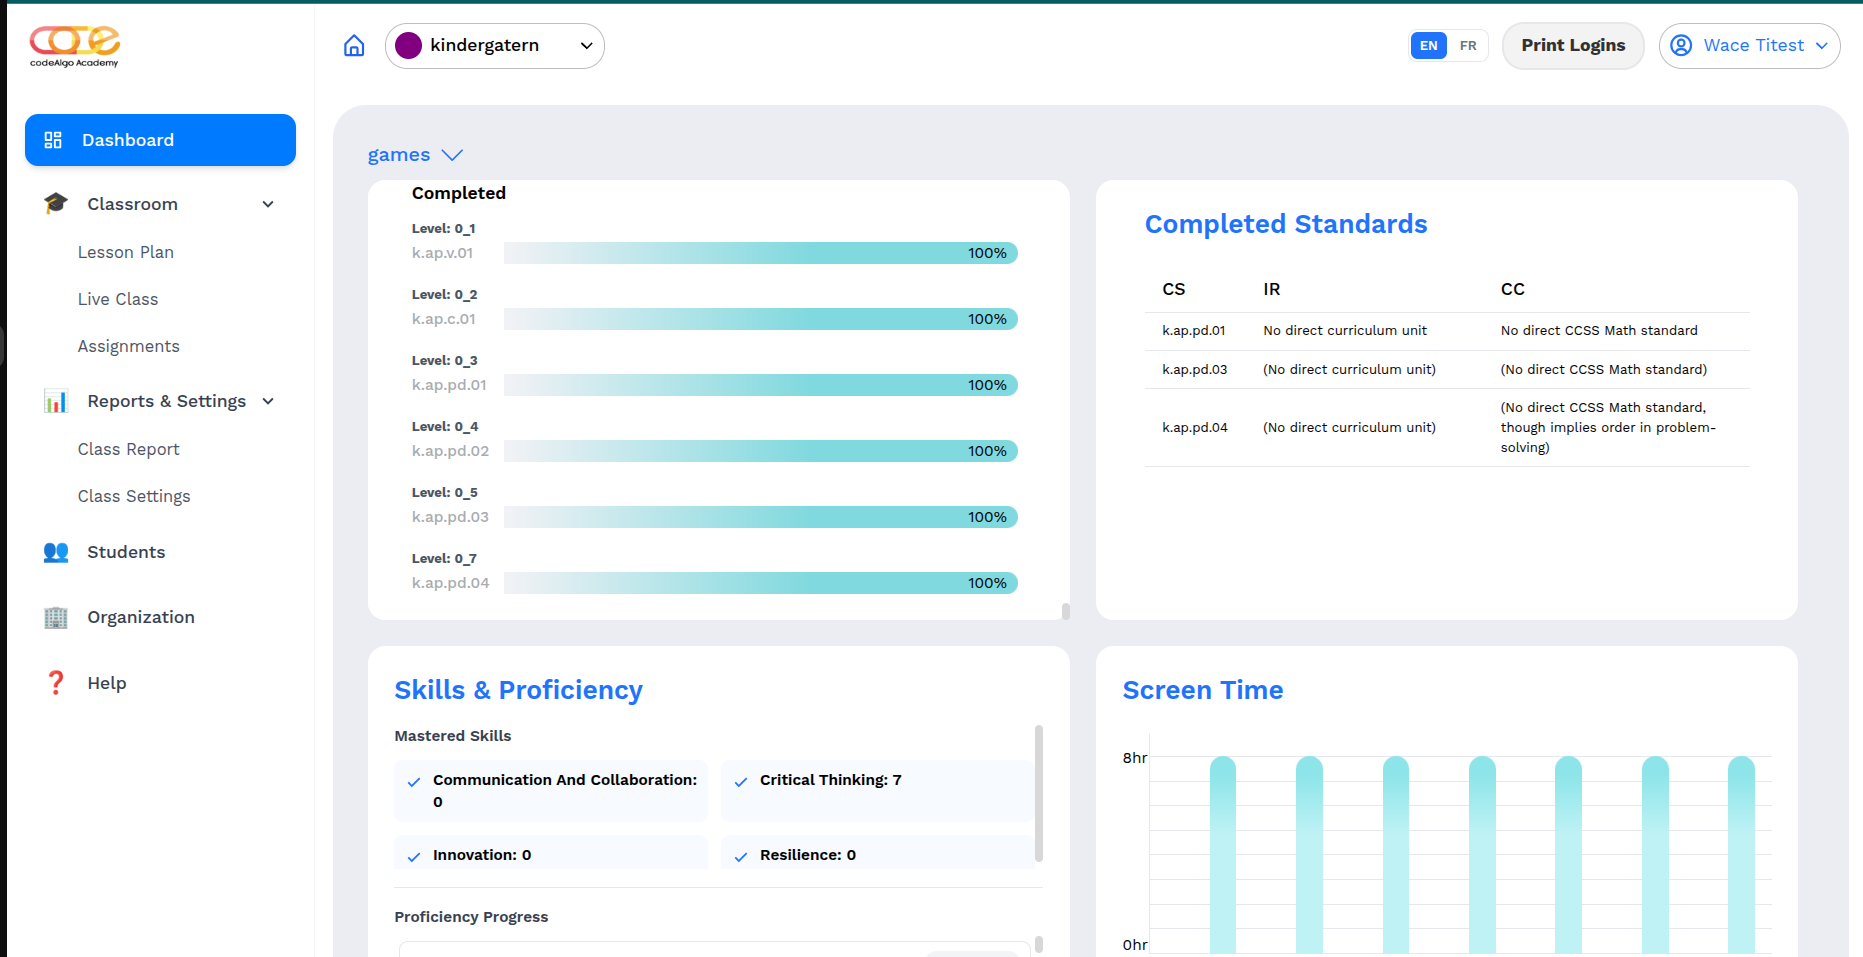
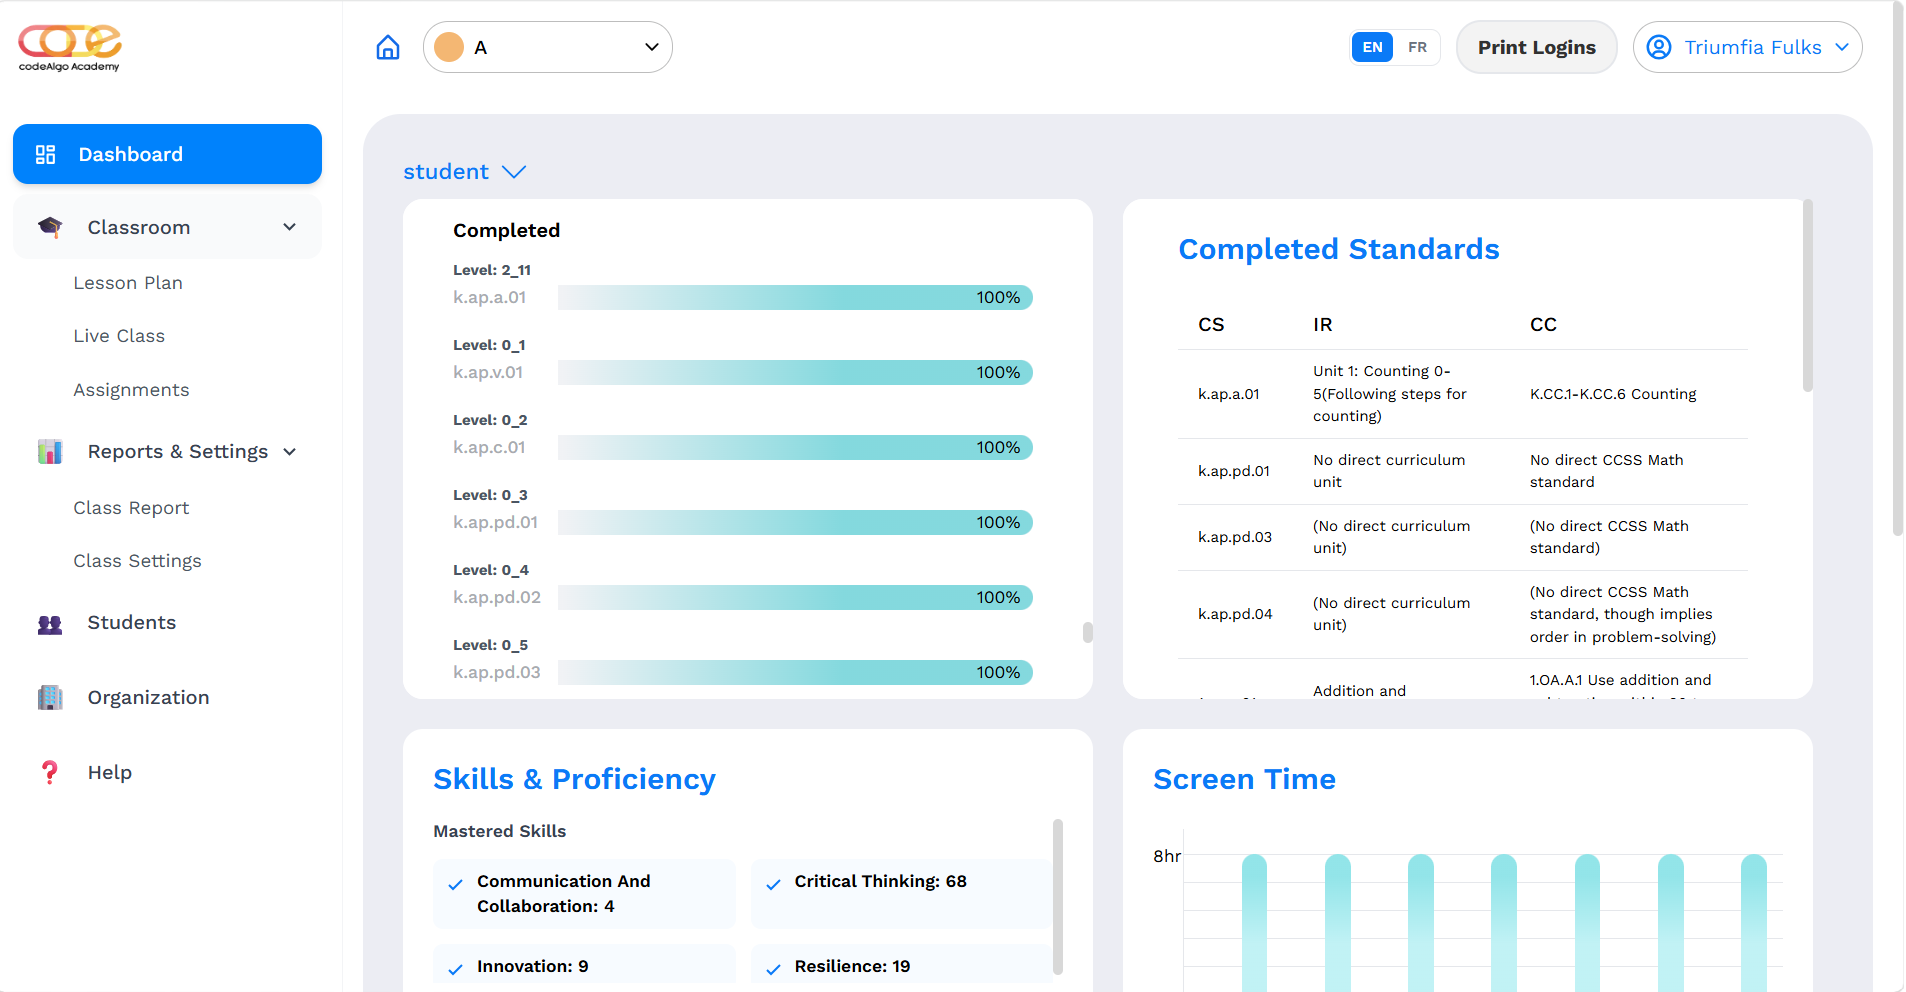
fix all the landing page feedback

diff --git a/components/home/new-home/as-seen-in.tsx b/components/home/new-home/as-seen-in.tsx
@@ -15,20 +15,65 @@ const AsSeenIs = () => {
       "bg-mainColor",
    ];
 
+   const additionalLogos = [
+      {
+         src: "/assets/landing/amnition.png",
+         alt: "Black Ambition",
+      },
+      {
+         src: "/assets/landing/build.png",
+         alt: "Build in Tulsa",
+      },
+      {
+         src: "/assets/landing/startup.png",
+         alt: "Startup World Cup",
+      },
+   ];
+
    return (
       <div className="mx-auto mt-10 max-w-[1200px] px-6 pb-12">
+         {/* Stripe */}
          <div className="mx-auto mb-20 mt-8 flex h-[8px] w-[500px] max-w-[90vw] md:mb-28 md:mt-12">
             {stripeColors.map((bg, index) => (
-               <span key={index} className={cn("block h-full flex-1", bg)}></span>
+               <span
+                  key={index}
+                  className={cn("block h-full flex-1", bg)}
+               />
             ))}
          </div>
 
+         {/* Heading */}
          <h1 className="text-center font-tiltWarp text-[2.1rem] max-md:text-[1.5rem]">
             {t("asSeenIn")}
          </h1>
 
+         {/* Existing combined logos */}
          <div className="mx-auto mt-12 max-w-[1200px]">
-            <Image src={"/assets/landing/as-seen-in.png"} width={2000} height={600} alt={t("altAsSeenIn")} />
+            <Image
+               src="/assets/landing/as-seen-in.png"
+               width={2000}
+               height={600}
+               alt={t("altAsSeenIn")}
+               className="h-auto w-full object-contain"
+            />
+         </div>
+
+         {/* New logos */}
+         <div className="mx-auto mt-10 flex max-w-[900px] flex-wrap items-center justify-center gap-10 md:gap-16">
+            {additionalLogos.map((logo) => (
+               <div
+                  key={logo.src}
+                  className="relative h-[110px] w-[220px] max-md:h-[90px] max-md:w-[180px]"
+               >
+                  <Image
+                     src={logo.src}
+                     alt={logo.alt}
+                     layout="fill"
+                     sizes="(max-width: 768px) 180px, 220px"
+                     className="object-contain"
+                  />
+               </div>
+            ))}
          </div>
       </div>
    );

diff --git a/components/home/new-home/get-started.tsx b/components/home/new-home/get-started.tsx
@@ -15,21 +15,27 @@ const GetStarted = () => {
          image: "/assets/landing/images14.png",
          alt: "Customize and create your CodeAlgo avatar",
          fit: "object-contain",
+         position: "object-center",
          background: "bg-whiteToBlueGradient",
+         imageWrapper: "inset-5 bottom-24",
       },
       {
          title: t("learnByPlaying"),
          image: "/assets/landing/rename.png",
          alt: "Learn coding by playing in CodeAlgo",
          fit: "object-cover",
+         position: "object-center",
          background: "bg-mainColor/10",
+         imageWrapper: "inset-5 bottom-24",
       },
       {
          title: t("codeYourWorld"),
-         image: "/assets/landing/image13.png",
-         alt: "Practice coding with CodeAlgo",
+         image: "/assets/landing/pythoncode.png",
+         alt: "Practice Python coding with CodeAlgo",
          fit: "object-cover",
+         position: "object-center",
          background: "bg-mainPurple/10",
+         imageWrapper: "inset-5 bottom-24",
       },
    ];
 
@@ -48,16 +54,19 @@ const GetStarted = () => {
                   key={card.title}
                   className={`relative h-[420px] overflow-hidden rounded-3xl md:h-[580px] ${card.background}`}
                >
-                  <div className="absolute inset-5 bottom-24">
+                  {/* Image */}
+                  <div className={`absolute ${card.imageWrapper}`}>
                      <Image
                         src={card.image}
                         alt={card.alt}
                         layout="fill"
+                        quality={100}
                         sizes="(max-width: 768px) 100vw, 33vw"
-                        className={`${card.fit} object-center`}
+                        className={`${card.fit} ${card.position}`}
                      />
                   </div>
 
+                  {/* Button */}
                   <CustomButton
                      onClick={toSignUp}
                      className="!absolute bottom-8 left-1/2 !mx-auto min-w-[170px] -translate-x-1/2 justify-center !bg-white !text-black !shadow-md"

diff --git a/components/press/Header.tsx b/components/press/Header.tsx
@@ -14,7 +14,7 @@ const Header: FC<IArticle> = (props) => {
                <img src={props.image} alt="" className="h-full w-full object-cover object-center" />
             </div>
             <div className="flex-1">
-               <h1 className="text-[1.5rem] font-bold leading-[1.2] text-[#2073f] md:text-[2.4rem]">{props.title}</h1>
+               <h1 className=" text-2xl font-bold leading-[1.2] text-black md:text-4xl">{props.title}</h1>
                <p className="mt-3 text-[1.1rem] text-[#222]">{props.body}</p>
                <div className="mt-8 flex max-w-[400px] flex-wrap items-center justify-between gap-4">
                   <p>{props.date}</p>

diff --git a/pages/press/index.tsx b/pages/press/index.tsx
@@ -12,9 +12,9 @@ const Press = () => {
    const { t } = useTranslation("pages");
    const { t: tp } = useTranslation("press");
    return (
-      <section className="min-h-screen w-full bg-[#ffffff] font-thabit">
+      <section className="min-h-screen w-full bg-[#ffffff] ">
          <Head>
-            <title>{t("pressTitle")}</title>
+            <title className="">{t("pressTitle")}</title>
             <meta name="description" content={t("pressDescription")} />
          </Head>
          <Navbar />

diff --git a/pages/blog/index.tsx b/pages/blog/index.tsx
@@ -11,7 +11,7 @@ const Blog = () => {
    const { t } = useTranslation("pages");
    const { t: tp } = useTranslation("blog");
    return (
-      <section className="min-h-screen w-full bg-[#ffffff] font-thabit">
+      <section className="min-h-screen w-full bg-[#ffffff]">
          <Head>
             <title>{t("blogTitle")}</title>
             <meta name="description" content={t("blogDescription")} />

diff --git a/pages/case-studies.tsx b/pages/case-studies.tsx
@@ -168,7 +168,7 @@ const CaseStudies = () => {
         <section className="bg-white border-y border-gray-200 shadow-sm">
           <div className="max-w-5xl mx-auto grid grid-cols-1 sm:grid-cols-3">
             <StatCard
-              value="+28,324"
+              value="41,928+"
               label={t("codingProblemsSolved")}
               source={t("platformData")}
             />
